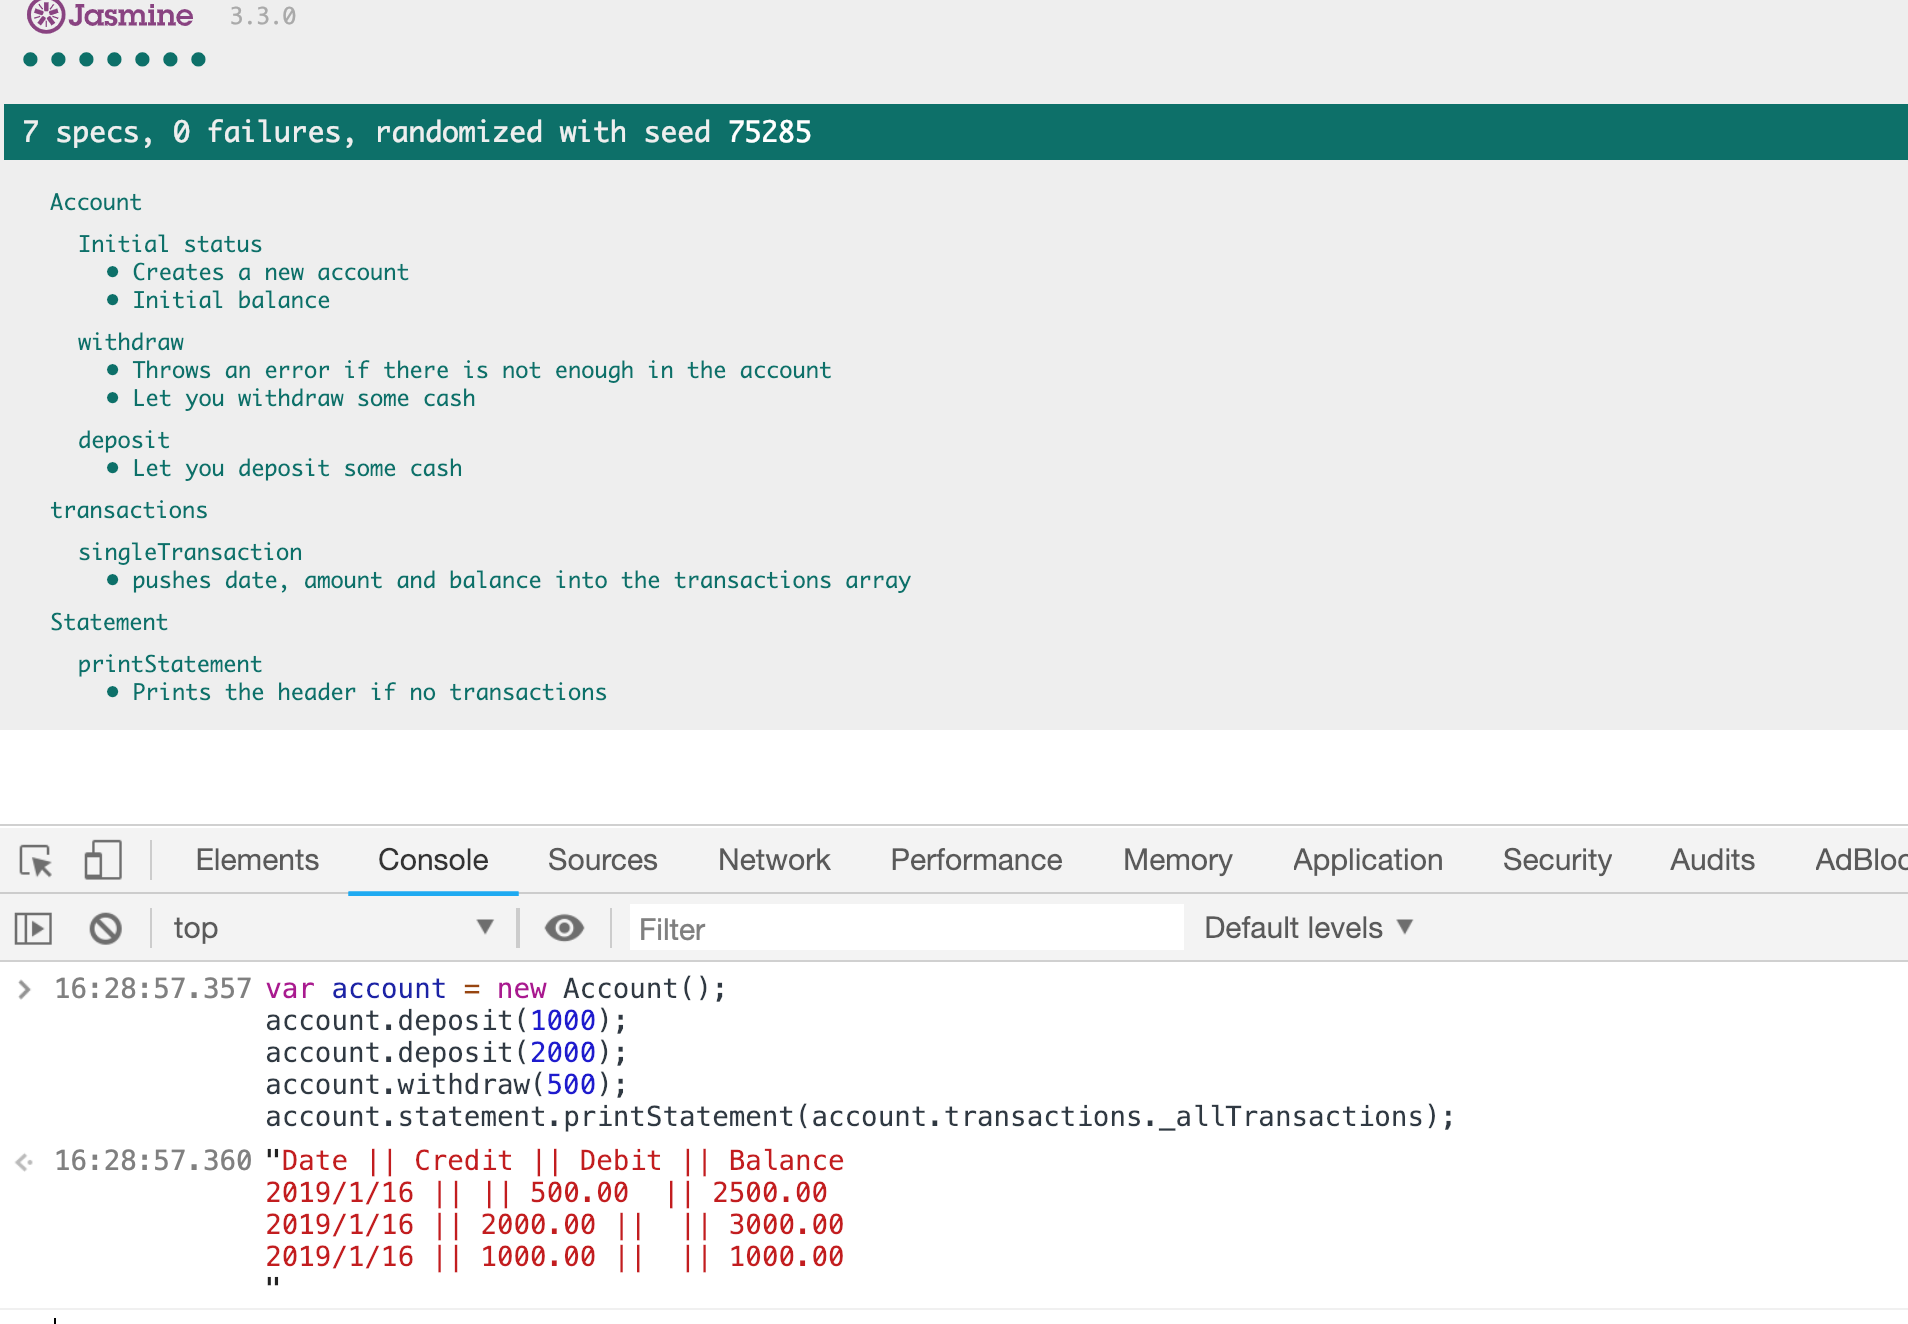
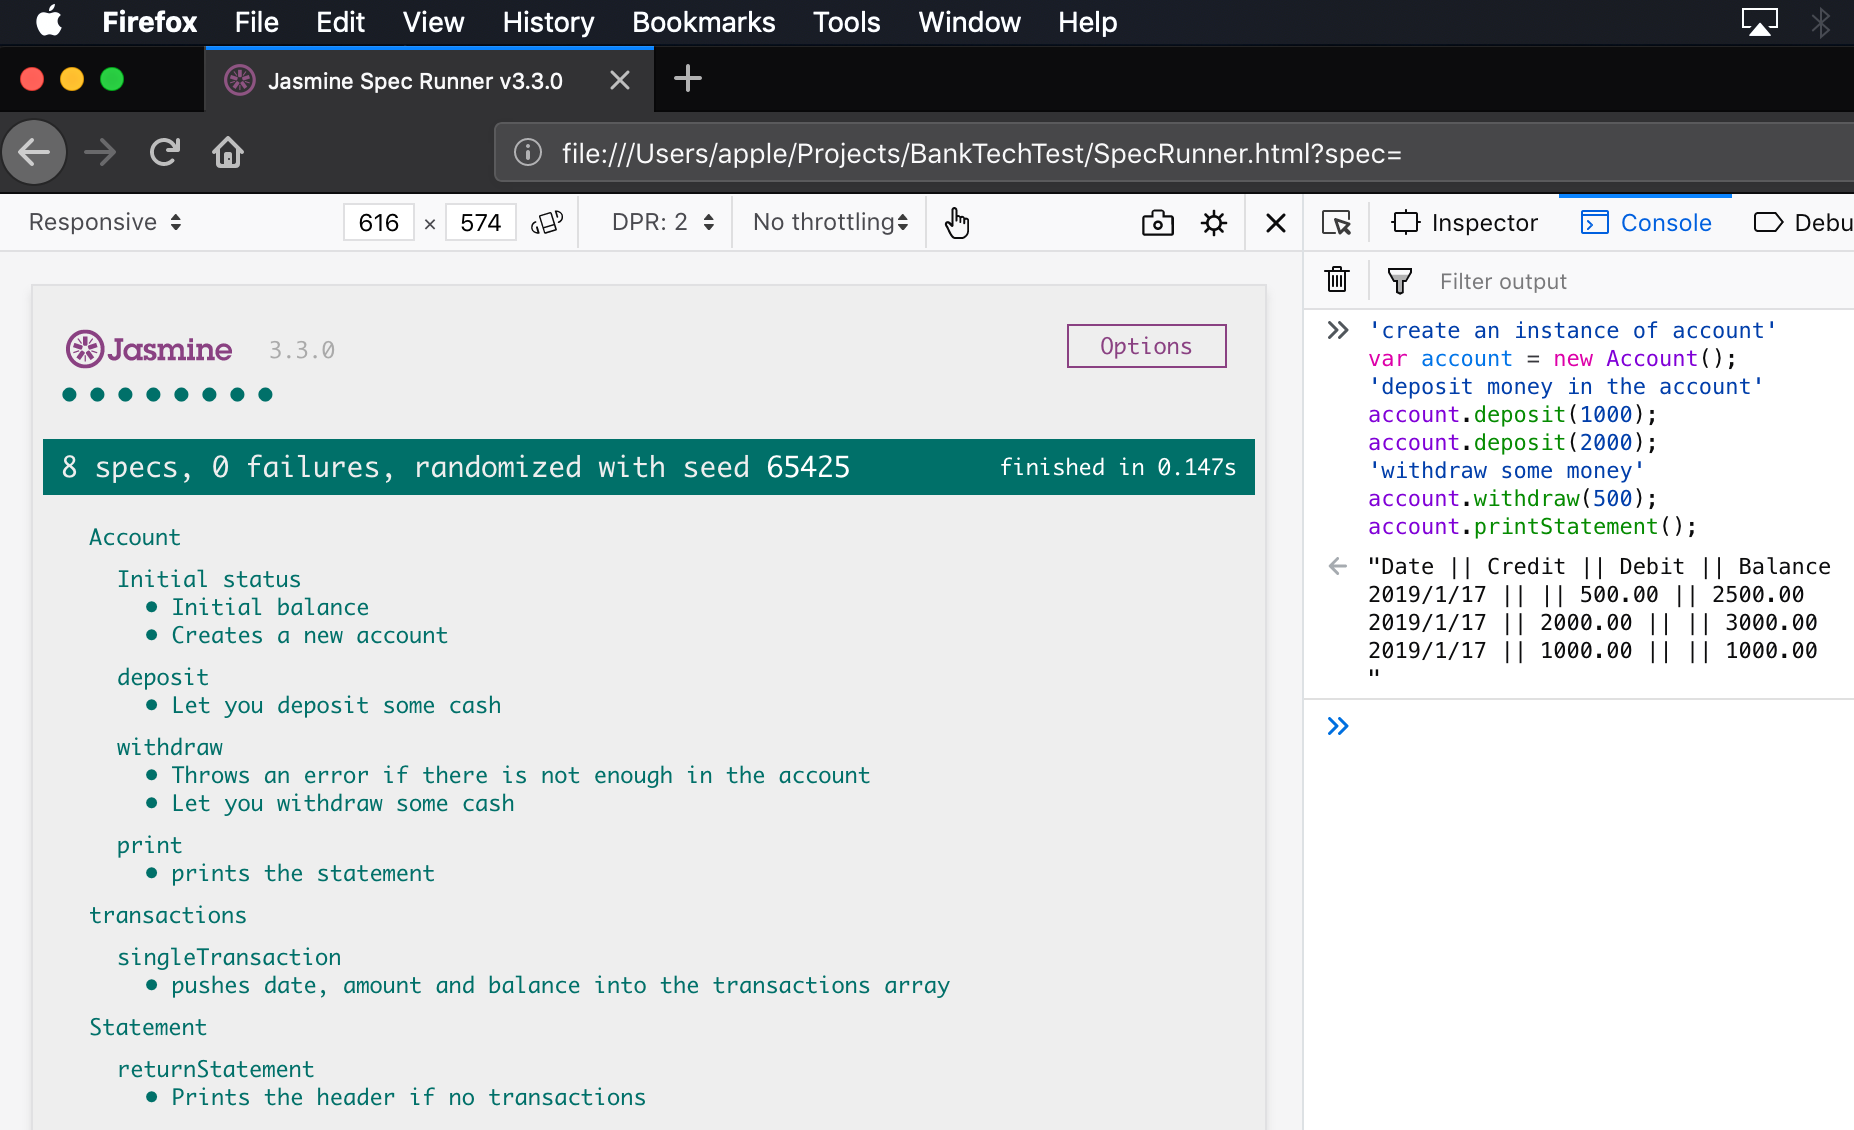
Created a print statement in tha acc class. Updated README and screenshot.

diff --git a/src/Statement.js b/src/Statement.js
@@ -1,21 +1,18 @@
 'use strict';
 
 function Statement(){
-  this._heading = 'Date || Credit || Debit || Balance \n';
+  this._heading = 'Date || Credit || Debit || Balance\n';
 };
 
-Statement.prototype.printStatement = function (transaction){
-  var string = ''
-  if (transaction.lenght === 0){
-    return this._heading;
-  } else {
-    for (var i = 0; i < transaction.length; i++) {
-      if(transaction[i][1] > 0){
-        string += `${transaction[i][0]} || ${transaction[i][1]} ||  || ${transaction[i][2]}` + '\n';
-      } else {
-        string += `${transaction[i][0]} || || ${(transaction[i][1] * -1).toFixed(2)}  || ${transaction[i][2]}` + '\n';
-      }
+Statement.prototype.returnStatement = function (transaction){
+  var string = this._heading
+  for (var i = 0; i < transaction.length; i++) {
+    if(transaction[i][1] > 0){
+      string += `${transaction[i][0]} || ${transaction[i][1]} || || ${transaction[i][2]}\n`;
+    } else {
+      string += `${transaction[i][0]} || || ${(transaction[i][1] * -1).toFixed(2)} || ${transaction[i][2]}\n`;
     }
   }
-  return this._heading + string;
+
+  return string;
 }

diff --git a/src/Account.js b/src/Account.js
@@ -13,7 +13,7 @@ Account.prototype.deposit = function (amount) {
 }
 
 Account.prototype.withdraw = function (amount) {
-  if (this._balance >= amount){
+  if (this._balance > amount){
     var negAmount = amount * -1;
     this._balance += negAmount;
     this.transactions.singleTransaction(negAmount, this._balance);
@@ -22,3 +22,7 @@ Account.prototype.withdraw = function (amount) {
   }
   return this._balance
 }
+
+Account.prototype.printStatement = function () {
+  return this.statement.returnStatement(this.transactions._allTransactions);
+};

diff --git a/spec/StatementSpec.js b/spec/StatementSpec.js
@@ -7,9 +7,9 @@ describe('Statement', function(){
    transactions = jasmine.createSpy('transactions');
  });
 
-  describe('printStatement', function() {
+  describe('returnStatement', function() {
    it('Prints the header if no transactions', function(){
-     expect(statement.printStatement(transactions)).toEqual('Date || Credit || Debit || Balance \n');
+     expect(statement.returnStatement(transactions)).toEqual('Date || Credit || Debit || Balance\n');
    });
   });
 

diff --git a/spec/AccountSpec.js b/spec/AccountSpec.js
@@ -37,4 +37,13 @@ describe('Account', function(){
    });
   });
 
+  describe('print', function() {
+    it('prints the statement', function(){
+      account.deposit(1000);
+      account.withdraw(50);
+      var statement = `Date || Credit || Debit || Balance\n2019/1/17 || || 50.00 || 950.00\n2019/1/17 || 1000.00 || || 1000.00\n`
+      expect(account.printStatement()).toEqual(statement);
+    });
+  });
+
 });

diff --git a/README.md b/README.md
@@ -9,8 +9,12 @@ The Account constructor takes care of the balance and deposit/withdraw, the Tran
 ![alt text](https://github.com/lucafrancesc/BankTechTest/blob/master/Screenshot%202019-01-15%20at%2015.29.05.png)
 
 ```
+'create an instance of account'
 var account = new Account();
-account.deposit(100);
-account.withdraw(5);
-account.statement.printStatement(account.transactions._allTransactions);
+'deposit money in the account'
+account.deposit(1000);
+account.deposit(2000);
+'withdraw some money'
+account.withdraw(500);
+account.printStatement();
 ```
